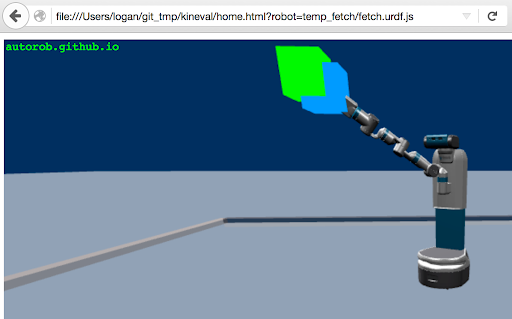
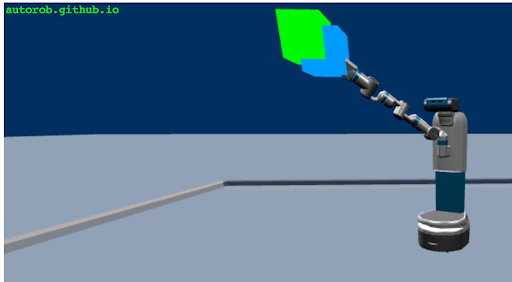
Updated links to open in a new tab

Changed region(s): [[0.0, 0.0, 1.0, 0.9078], [0.8125, 0.7376, 0.9375, 0.9078]]

diff --git a/index.html b/index.html
@@ -24,8 +24,8 @@
             </nav>
             <div class="social-icons">
                 <a href="mailto:tedivanac@gmail.com" title="Email"><i class="far fa-envelope"></i></a>
-                <a href="https://github.com/TedIvanac" title="GitHub"><i class="fab fa-github"></i></a>
-                <a href="https://www.linkedin.com/in/edward-ted-ivanac/" title="LinkedIn"><i class="fab fa-linkedin"></i></a>
+                <a href="https://github.com/TedIvanac" title="GitHub" target="_blank"><i class="fab fa-github"></i></a>
+                <a href="https://www.linkedin.com/in/edward-ted-ivanac/" title="LinkedIn" target="_blank"><i class="fab fa-linkedin"></i></a>
             </div>
             <div id="darkModeToggle" class="dark-mode-toggle">
                 <span id="toggleIcon">🌙</span>
@@ -47,7 +47,7 @@
             
             <div id="projects" class="section" section="projectNavItem">
                 <h2>Projects</h2>
-                <p>These are some selected personal and course projects that I have worked on, throughout my studies.</p>
+                <p>These are some selected projects that I have worked on throughout my studies.</p>
                 
                 <div class="project-container">
                     <div class="project-grid">
@@ -61,7 +61,7 @@
                                 <h3>MBot Brushless DC Motor Controller</h3>
                                 <p><b>Ted Ivanac</b>, Zack Vega, Clayton Elwell, Max West, and Elliot Karp<br>
                                 <em>Class Project, ROB 310: Robot Sensors & Signals</em></p>
-                                <a href="https://github.com/zackvega1/BLDCMotorDriver">Project Page</a>
+                                <a href="https://github.com/zackvega1/BLDCMotorDriver" target="_blank">Project Page</a>
                                 <p>Codeveloped brushless motor driver for use in the UMich MBot platform. Redesigned open-source SimpleFOC Arduino shield as a PCB to be compatible with a Raspberry Pi Pico microcontroller</p>
                             </div>
                         </div>
@@ -101,7 +101,7 @@
                                 <h3>Autonomous Vehicle Simulation</h3>
                                 <p><b>Ted Ivanac</b>, Servando Garza, and Jose Galvan<br>
                                 <em>Class Project, ROB 498: Autonomous Vehicles</em></p>
-                                <a href="https://github.com/TedIvanac/ROB-498-Autonomous-Vehicle-Sim">Project Page</a>
+                                <a href="https://github.com/TedIvanac/ROB-498-Autonomous-Vehicle-Sim" target="_blank">Project Page</a>
                                 <p>Implemented a Kinematic Bicycle model in MATLAB with PI controllers for velocity control and steering wheel control to autonomously navigate the vehicle along a series of predetermined waypoints</p>
                             </div>
                         </div>
@@ -115,7 +115,7 @@
                                 <h3>Path Draw Bot</h3>
                                 <p><b>Ted Ivanac</b>, Servando Garza, and Matthew Perez<br>
                                 <em>Class Project, EECS 452: Digital Signal Processing Lab</em></p>
-                                <a href="https://github.com/TedIvanac/EECS-452-Final-Project">Project Page</a>
+                                <a href="https://github.com/TedIvanac/EECS-452-Final-Project" target="_blank">Project Page</a>
                                 <p>Using a Pi Cam, we captured black lines we drew, and used Computer Vision to analyze those lines and translate them into directions for the robot to follow, driving along the drawn path.</p>
                             </div>
                         </div>
@@ -129,7 +129,7 @@
                                 <h3>Image Sonification</h3>
                                 <p><b>Ted Ivanac</b>, Servando Garza, Matthew Perez, Zion Studivant, and Marco Pajaro<br>
                                 <em>Class Project, EECS 351: Digital Signal Processing</em></p>
-                                <a href="https://sites.google.com/umich.edu/eecs351-project-sonify/home?authuser=0">Project Page</a>
+                                <a href="https://sites.google.com/umich.edu/eecs351-project-sonify/home?authuser=0" target="_blank">Project Page</a>
                                 <p>Developed an algorithm to convert images into sounds using a set of Digital Signal Processing techniques</p>
                             </div>
                         </div>
@@ -325,7 +325,7 @@
             
             <tr>
                 <td style="padding:20px;width:25%;vertical-align:middle" align="center">
-                  <img src="assets/imgs/University-Of-Michigan-Seal-Logo-1524506528.png" alt="uofm" style="border-style: none" width="128" height="64">
+                  <img src="assets/imgs/University-Of-Michigan-Seal-Logo-1524506528.png" alt="uofm" style="border-style: none" width="256" height="128">
                 </td>
                 <td width="75%" valign="middle">
                   <h3>University of Michigan - Ann Arbor</h3>
@@ -341,16 +341,31 @@
             
             <tr>
                 <td style="padding:20px;width:25%;vertical-align:middle" align="center">
-                  <img src="assets/imgs/University-Of-Michigan-Seal-Logo-1524506528.png" alt="uofm" style="border-style: none" width="128" height="64">
+                  <img src="assets/imgs/University-Of-Michigan-Seal-Logo-1524506528.png" alt="uofm" style="border-style: none" width="256" height="128">
                 </td>
                 <td width="75%" valign="middle">
                   <h3>University of Michigan - Ann Arbor</h3>
-                  <strong>Bachelor of Science and Engineering in Electrical Engineering</strong>
+                  <strong>Bachelor of Science in Engineering - Electrical Engineering</strong>
                   <br>
                   <em>September 2019 to May 2024</em>
                   <br>
                   <p>
-                    <strong>Notable Coursework</strong> - Digital Signal Processing, Robot Operating Systems, SLAM & Navigation, Robot Sensors & Signals
+                    <strong>Notable Coursework</strong> - Data Structures, Digital Signal Processing, Embedded Control Systems
+                  </p>
+                </td>
+            </tr>
+            <tr>
+                <td style="padding:20px;width:25%;vertical-align:middle" align="center">
+                  <img src="assets/imgs/University-Of-Michigan-Seal-Logo-1524506528.png" alt="uofm" style="border-style: none" width="256" height="128">
+                </td>
+                <td width="75%" valign="middle">
+                  <h3>University of Michigan - Ann Arbor</h3>
+                  <strong>Bachelor of Science in Engineering - Electrical Engineering</strong>
+                  <br>
+                  <em>September 2019 to May 2024</em>
+                  <br>
+                  <p>
+                    <strong>Notable Coursework</strong> - Robot Operating Systems, SLAM & Navigation, Autonomous Vehicles
                   </p>
                 </td>
             </tr>
@@ -368,6 +383,7 @@
                 </object>
             </tr>
             </section>
+
         <footer class="footer">
             &copy; <span id="current-year"></span> Ted Ivanac
             <p><small>Hosted on GitHub Pages &mdash; Forked from Wenhe Wang <a href="https://milkistasty.github.io/">milkistasty.github.io</a></small></p>
